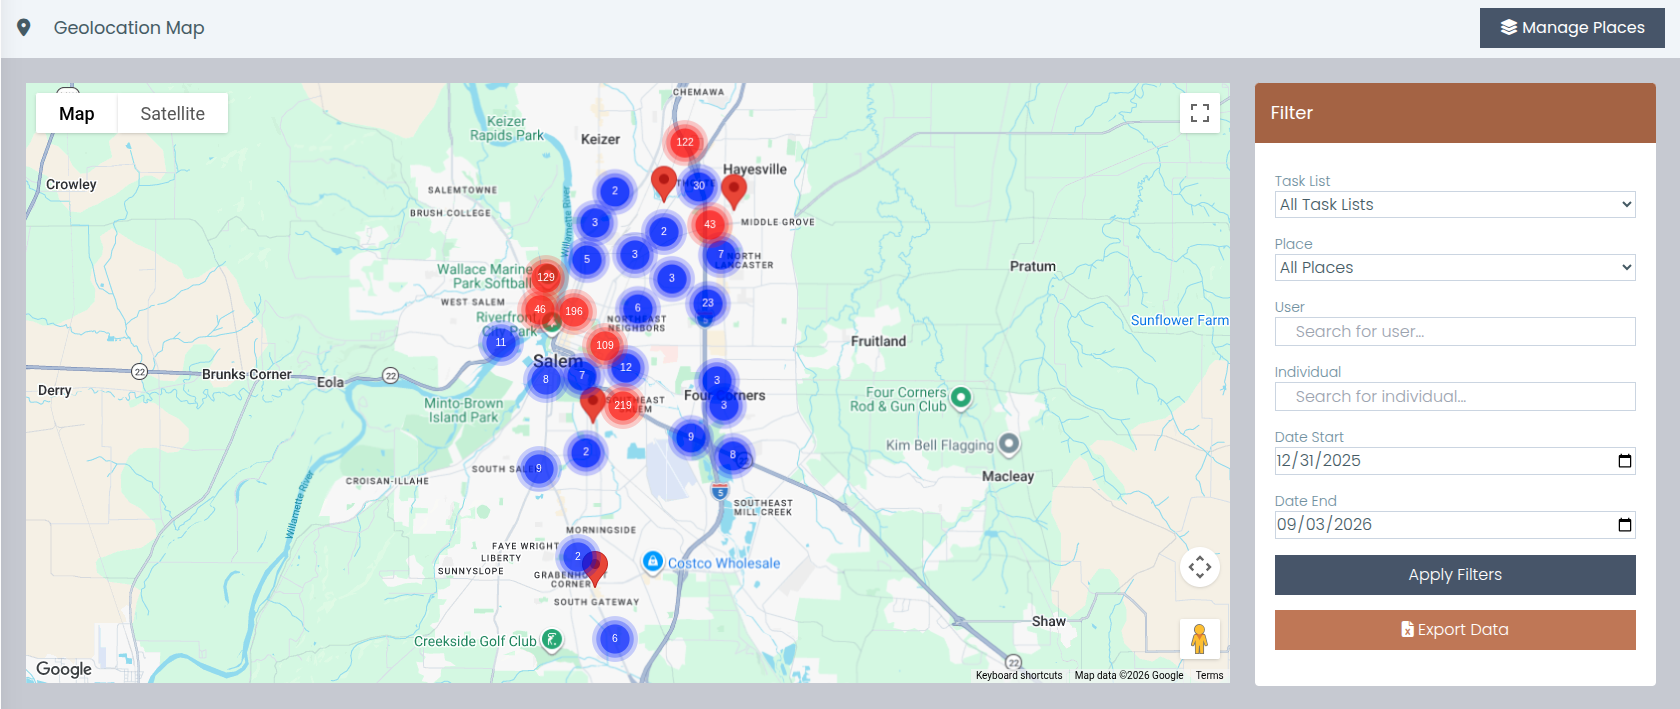
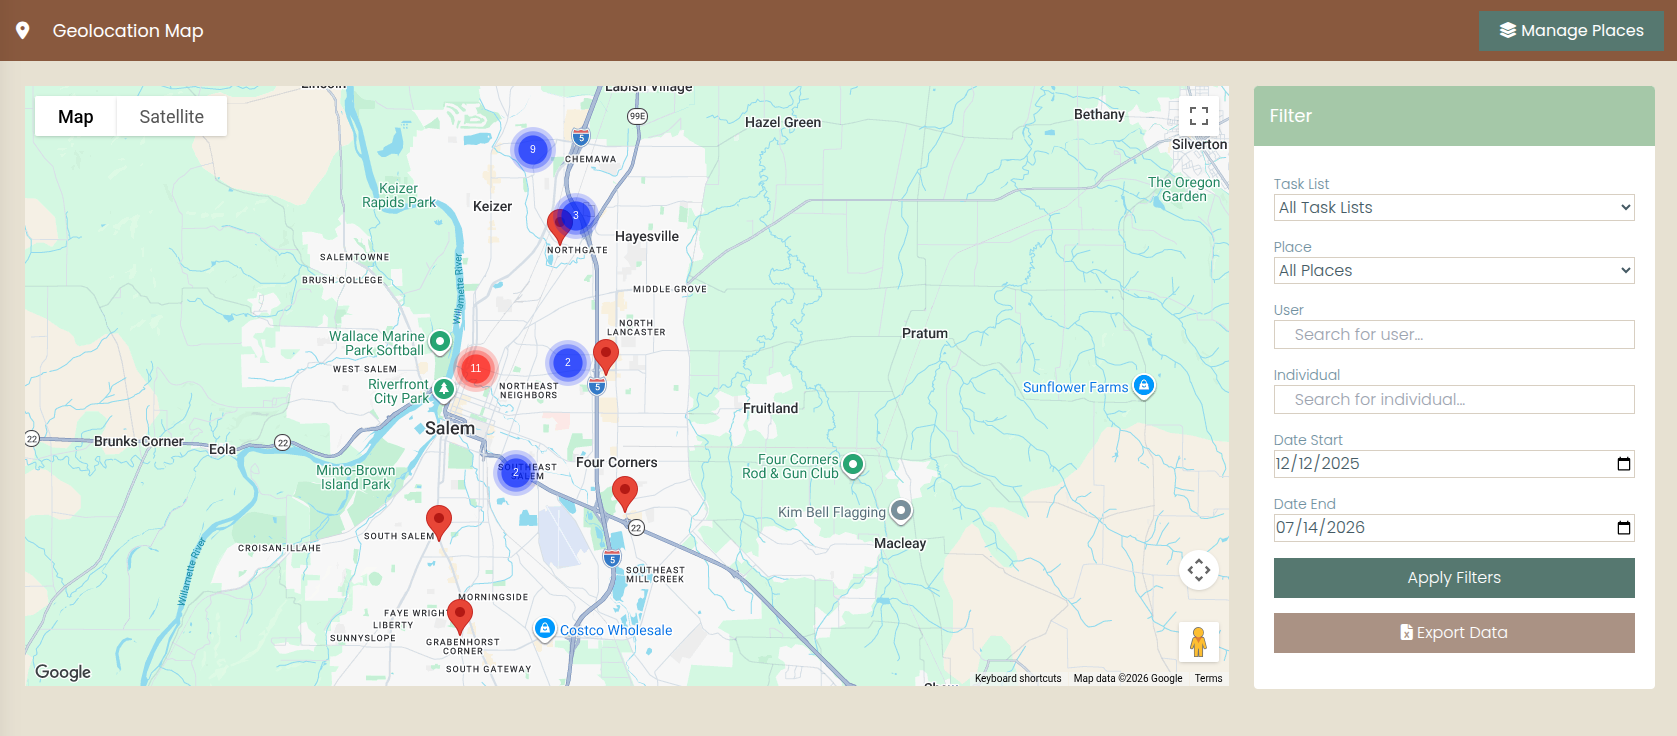
Need Navigator: GeoTracker map re-captured
Replaces the supervisor map with Dave's new capture (sparser, named
places as pins). The earlier capture is removed from the server.

diff --git a/resources/sites/neednavigator/pages/features/geotracker.blade.php b/resources/sites/neednavigator/pages/features/geotracker.blade.php
@@ -70,13 +70,13 @@
     {{-- ================= Supervisor map UI representation ================= --}}
     <section class="section section--surface">
         <div class="container">
-            {{-- IMAGE SLOT: geotracker-supervisor-map | filled 2026-09-04 with a real screenshot: img/screens/geotracker-map (source in /home/ubuntu/sitehub-image-sources/neednavigator) --}}
+            {{-- IMAGE SLOT: geotracker-supervisor-map | filled 2026-09-04 with a real screenshot: img/screens/geotracker-map, from geolocation.png (source in /home/ubuntu/sitehub-image-sources/neednavigator) --}}
             <figure style="margin:0">
                 <div class="uiframe">
                     <div class="uiframe-bar"><i></i><i></i><i></i><span>GeoTracker: supervisor map</span></div>
-                    @include('site::partials.screen', ['name' => 'geotracker-map', 'alt' => 'A map of Salem, Oregon with location logs clustered into numbered markers and place pins, beside a filter panel for task list, place, user, individual, and date range, with apply and export buttons', 'width' => 1680, 'height' => 709])
+                    @include('site::partials.screen', ['name' => 'geotracker-map', 'alt' => 'A map of Salem, Oregon with location logs gathered into numbered clusters and single place pins, beside a filter panel for task list, place, user, individual and date range, with apply and export buttons', 'width' => 1677, 'height' => 736])
                 </div>
-                <figcaption class="ui-caption">The GeoTracker supervisor map on a test instance: location logs across Salem clustered into counted markers and named places, with filters for task list, place, worker, client, and date range, and an export of the underlying logs.</figcaption>
+                <figcaption class="ui-caption">The GeoTracker supervisor map on a test instance: a team&rsquo;s location logs across Salem gathered into counted clusters and place pins, with filters for task list, place, worker, client and date range, and an export of the underlying logs.</figcaption>
             </figure>
         </div>
     </section>

diff --git a/resources/sites/neednavigator/docs/image-manifest.md b/resources/sites/neednavigator/docs/image-manifest.md
@@ -26,7 +26,7 @@ Every image slot on the site is listed here. Placeholders are inline SVG / CSS c
 | 20 | `events-public-page` | /features/events — UI representation section, left panel (section--surface, directly under the hero) | Stylized HTML recreation of a published public event page: hero-image block, title, schedule/location, capacity indicator with meter, two ticket types with quantities, an applied promo code chip, and a donation-pledge row with the offline-collection note | Real screenshot of a published public event page, light theme — hero image, schedule, location, capacity indicator, and ticket types visible; demo event data only |
 | 21 | `events-dayof-checkin` | /features/events — UI representation section, right panel (section--surface, directly under the hero) | Stylized HTML recreation of the day-of check-in list: checked-in/registered/walk-in counts, a QR check-in with undo, a pending check-in, a walk-in registered at the door, and a no-show | Real screenshot of the day-of check-in screen, light theme — checked-in guests, undo, a walk-in registration, and a no-show visible; test attendees only, no real names |
 | 22 | `parent-ed-attendance-grid` | /features/parent-education-classes — UI representation section (section--surface, directly below the hero) | ✅ **Filled 2026-09-04** with a real screenshot: `img/screens/class-offering` (test data; sources outside the repo at `/home/ubuntu/sitehub-image-sources/neednavigator/`). Was: Stylized HTML/CSS recreation of the facilitator mobile attendance grid inside a .uiframe browser frame (5 roster rows with P/A/L/E pills, credit-override and walk-in annotations, walk-in button, session note) | Real screenshot of the facilitator mobile attendance grid, light theme, portrait phone crop — present/absent/late/excused marks, a credit override, a walk-in row, and the walk-in button visible |
-| 23 | `geotracker-supervisor-map` | /features/geotracker — UI representation section (section--surface, directly after the hero) | ✅ **Filled 2026-09-04** with a real screenshot: `img/screens/geotracker-map` (test data; sources outside the repo at `/home/ubuntu/sitehub-image-sources/neednavigator/`). Was: Stylized inline-SVG supervisor map inside a .uiframe: filter chips (worker / client / task list / place / dates), clustered markers with counts, two staff-named place labels, one dashed unnamed-place label, and three lone log pins | Real screenshot of the GeoTracker supervisor map, light theme, landscape — clustered markers with counts, at least one staff-named place label, and the filter controls (worker / task list / place / date range) visible in frame |
+| 23 | `geotracker-supervisor-map` | /features/geotracker — UI representation section (section--surface, directly after the hero) | ✅ **Filled 2026-09-04** with a real screenshot: `img/screens/geotracker-map` (re-captured 2026-09-05 from geolocation.png; the earlier capture was purged from the server; test data; sources outside the repo at `/home/ubuntu/sitehub-image-sources/neednavigator/`). Was: Stylized inline-SVG supervisor map inside a .uiframe: filter chips (worker / client / task list / place / dates), clustered markers with counts, two staff-named place labels, one dashed unnamed-place label, and three lone log pins | Real screenshot of the GeoTracker supervisor map, light theme, landscape — clustered markers with counts, at least one staff-named place label, and the filter controls (worker / task list / place / date range) visible in frame |
 | 24 | `caa-funding-pools` | /solutions/community-action-agencies — second section (section--surface directly below the hero) | ✅ **Filled 2026-09-04** with a real screenshot: `img/screens/funding-pools-fy` (neednav-funding-pools export, whole; invented figures; sources outside the repo at `/home/ubuntu/sitehub-image-sources/neednavigator/`). Was: Stylized HTML recreation of two funding-pool balance meters (reusing .pool-meter) plus a request split across both pools with a reconciliation check, inside a .uiframe browser frame | Real screenshot of the funding pools screen showing balances and date ranges by funder, and a need's split allocation across two pools, light theme, landscape |
 | 25 | `shelters-housing-checkout` | /solutions/shelters-housing — UI representation section directly after the hero (section--surface) | ✅ **Filled 2026-09-04** with a real screenshot: `img/screens/reservation-floor-plan (also on /features/shelters)` (test data; sources outside the repo at `/home/ubuntu/sitehub-image-sources/neednavigator/`). Was: Stylized HTML/CSS recreation of a group check-out card: household of three checking out in one action, categorized exit reason (Housing / Moved to transitional housing), bed nights actual vs planned, and the enrollment-closing automation note | Real screenshot of a group reservation check-out for a family — whole-group check-out with exit reason selection and bed nights visible — light theme, landscape |
 | 26 | `fbca-distribution-grid` | /solutions/food-banks-community-aid — UI representation section, directly below the hero | Stylized HTML recreation of the Quick Forms submissions grid on a distribution morning: check-in times, household sizes, match badges (exact / probable / new), what each household received, and the linked request's status, with a presence indicator | Real screenshot of the Quick Forms submissions grid worked during a distribution day, light theme, landscape — match badges, household details, and request statuses visible |
